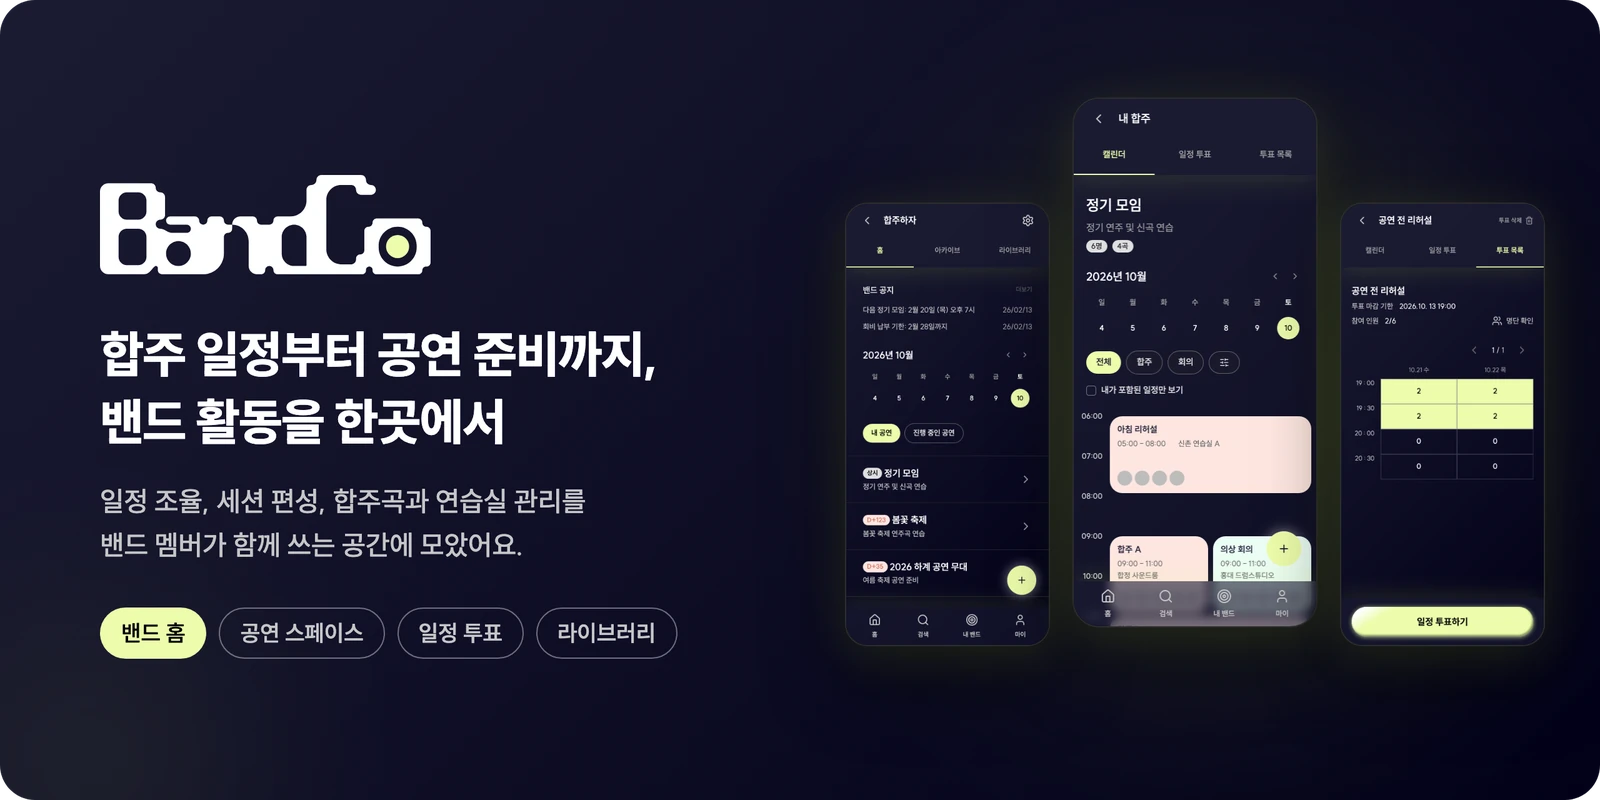
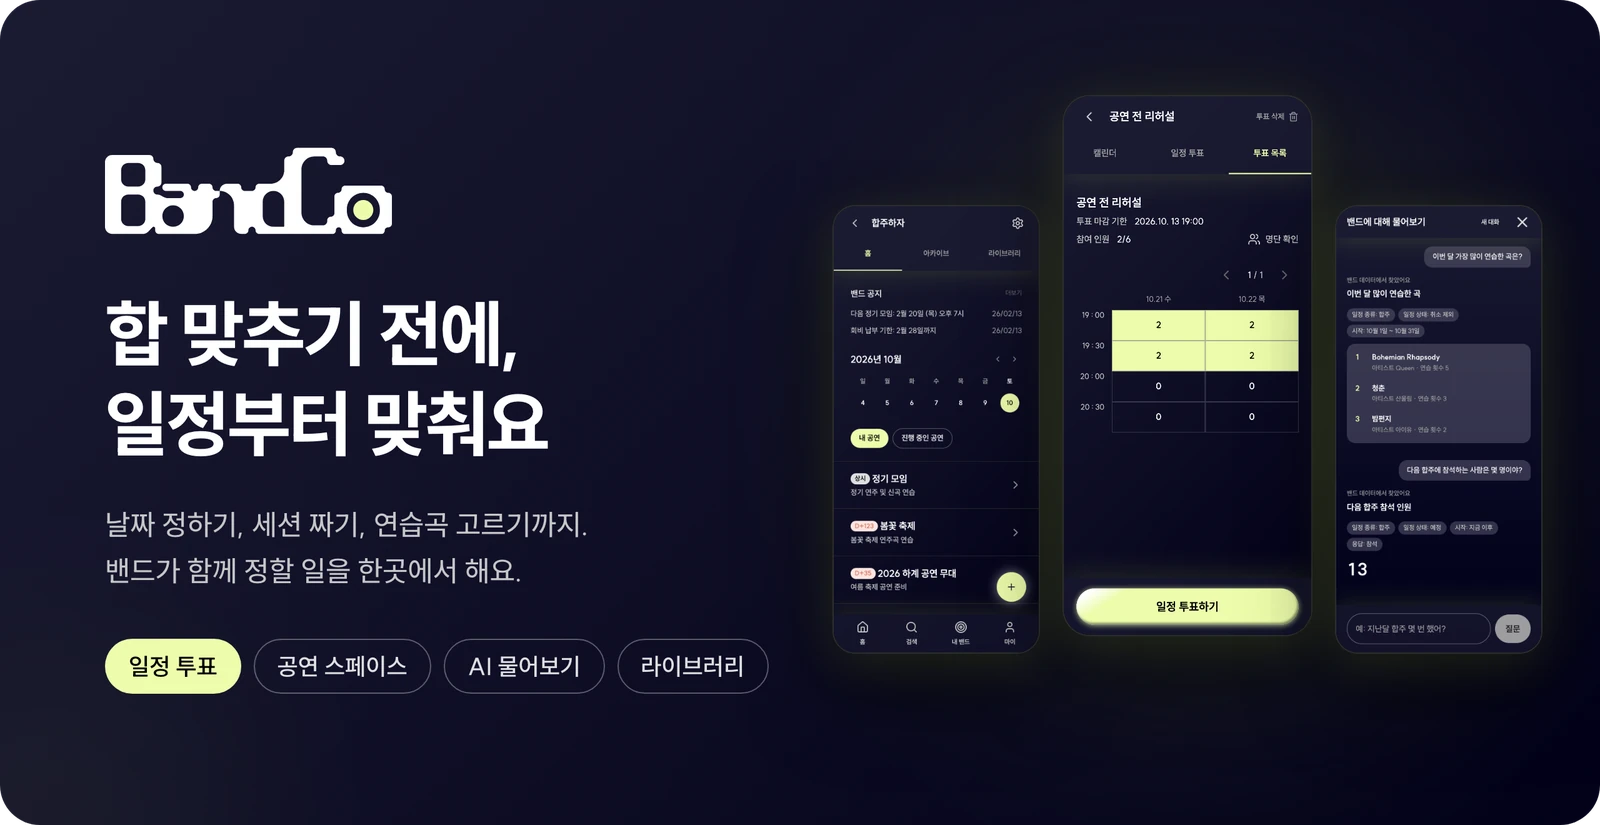
📝 docs: README를 기능 카드 중심으로 다시 디자인
기능 설명을 번호·카피·핵심 포인트가 담긴 카드 이미지로 옮기고, 화면과 좌우를 번갈아 배치한다. AI 물어보기 GIF를 추가하고 GIF마다 기능 이름 라벨을 넣는다. 기술 스택과 아키텍처는 카드 한 장으로 묶고, 시작하기·문서 절은 뺀다.

diff --git a/README.md b/README.md
@@ -1,104 +1,39 @@
 <div align="center">
 
-<img src="docs/readme/banner.webp" alt="BandCo — 합주 일정부터 공연 준비까지, 밴드 활동을 한곳에서" width="100%">
+<img src="docs/readme/banner.webp" alt="BandCo. 합 맞추기 전에, 일정부터 맞춰요. 날짜 정하기, 세션 짜기, 연습곡 고르기까지 밴드가 함께 정할 일을 한곳에서 해요." width="100%">
 
 <br>
-
-**BandCo · Band + Community**
-
-밴드 멤버가 합주 일정, 공연 준비, 곡과 연습실 정보를 함께 관리하는 모바일 웹 서비스
-
 <br>
 
-<img src="https://img.shields.io/badge/React_19-20232A?style=flat-square&logo=react&logoColor=61DAFB">
-<img src="https://img.shields.io/badge/TypeScript-3178C6?style=flat-square&logo=typescript&logoColor=white">
-<img src="https://img.shields.io/badge/TanStack-FF4154?style=flat-square&logo=reactquery&logoColor=white">
-<img src="https://img.shields.io/badge/Tailwind_CSS_v4-06B6D4?style=flat-square&logo=tailwindcss&logoColor=white">
-<img src="https://img.shields.io/badge/NestJS_11-E0234E?style=flat-square&logo=nestjs&logoColor=white">
-<img src="https://img.shields.io/badge/Prisma-2D3748?style=flat-square&logo=prisma&logoColor=white">
-<img src="https://img.shields.io/badge/PostgreSQL-4169E1?style=flat-square&logo=postgresql&logoColor=white">
+<img src="docs/readme/demo-ai.gif" alt="AI 물어보기: 질문을 입력하면 밴드 데이터에서 다음 합주 일정과 참석 인원을 찾아 답하는 화면" width="31%">
+&nbsp;
+<img src="docs/readme/demo-poll.gif" alt="일정 투표: 가능한 시간을 드래그로 골라 투표하면 시간대별 인원이 늘어나는 화면" width="31%">
+&nbsp;
+<img src="docs/readme/demo-space.gif" alt="공연 스페이스: 밴드 홈에서 공연 스페이스로 들어가 일정과 세션 편성을 여는 화면" width="31%">
+
+<br>
+<br>
+
+<img src="docs/readme/feature-01.webp" alt="01 밴드 홈. 우리 밴드 소식, 홈에서 한 번에. 공지, 이번 주 일정, 준비 중인 공연이 한 화면에 모여 있어요. 가입한 밴드는 카드로 모아 보고, 공지와 캘린더, 공연 목록을 한눈에 봐요." width="100%">
+
+<img src="docs/readme/feature-02.webp" alt="02 공연 스페이스. 공연 하나에 필요한 합주를 전부. 공연마다 스페이스를 만들고 합주와 회의를 타임라인으로 정리해요. 합주·회의 필터와 내 일정만 보기, 곡·키·장소가 담긴 일정 상세, 파트별 멤버와 장비까지 담은 세션 편성." width="100%">
+
+<img src="docs/readme/feature-03.webp" alt="03 일정 투표. 되는 시간만 쓱 긁어 주세요. 가능한 시간을 드래그로 고르면 시간대마다 인원이 바로 쌓여요. 후보 날짜와 시간대로 투표를 만들고, 가능한 인원 표와 명단을 확인해요." width="100%">
+
+<img src="docs/readme/feature-04.webp" alt="04 AI 물어보기. 궁금한 건 그냥 물어보세요. '다음 합주 몇 명 와?'처럼 물으면 밴드 데이터에서 찾아 답해요. 숫자는 크게, 순위는 목록으로 보여 주고, 어떤 조건으로 찾았는지 함께 표시해요. 자주 묻는 질문은 눌러서 바로 물어봐요." width="100%">
+
+<img src="docs/readme/feature-05.webp" alt="05 라이브러리와 프로필. 연습곡도, 연습실도, 내 파트도. 합주곡과 자주 가는 연습실을 모아 두고 내 플레이 파트를 프로필로 보여 줘요. 곡마다 키·BPM·음원 링크를 저장하고, 대표 영상이 담긴 프로필 카드를 만들어요." width="100%">
+
+<img src="docs/readme/feature-06.webp" alt="06 초대와 멤버 관리. 링크 하나면 멤버가 모여요. 초대 링크를 보내거나 이름으로 찾아 바로 추가해요. 멤버 권한과 팀을 관리하고, 이메일과 Google로 로그인해요." width="100%">
+
+<img src="docs/readme/tech.webp" alt="기술과 구조. Frontend: React 19, React Compiler, TypeScript, Vite, TanStack Router, TanStack Query, Tailwind CSS v4, Radix UI, MSW, Vitest. Backend: NestJS 11, Prisma 6, PostgreSQL, Swagger, Jest. AI: Gemini, pgsql-parser AST 검증. Infra: Docker, GitHub Actions, AWS Lightsail, Secrets Manager, CloudWatch, Vercel. Frontend(React, Vercel)가 REST로 Backend(NestJS, Lightsail)를 호출하고, Backend는 PostgreSQL, Object Storage, Gemini를 사용해요. GitHub Actions가 Docker 이미지를 빌드해 Lightsail에 배포해요." width="100%">
 
 </div>
 
-<br>
-
-## 미리보기
-
-<p align="center">
-  <img src="docs/readme/demo-space.gif" alt="밴드 홈에서 공연 스페이스로 들어가 일정 상세를 여는 흐름" width="300">
-  &nbsp;&nbsp;
-  <img src="docs/readme/demo-poll.gif" alt="일정 투표에서 가능한 시간을 드래그해 투표하는 흐름" width="300">
-</p>
-<p align="center"><sub>공연 스페이스에서 일정 확인하기 · 가능한 시간을 드래그해 일정 투표하기</sub></p>
-
-## 핵심 기능
-
-### 1. 밴드 홈
-
-가입한 밴드를 카드로 모아 보고, 밴드에 들어가면 공지와 이번 주 캘린더, 준비 중인 공연을 한 화면에서 확인해요.
-
-<img src="docs/readme/feature-home.webp" alt="내 밴드 목록과 밴드 홈 화면" width="100%">
-
-### 2. 공연 스페이스와 일정
-
-공연 하나를 준비하는 데 필요한 합주와 회의를 스페이스 하나에 모아요.
-
-- **타임라인 캘린더**: 날짜별 일정을 시간 순서로 보고, 합주·회의로 거르거나 내가 포함된 일정만 볼 수 있어요.
-- **일정 상세**: 연습할 곡과 키, 날짜·시간·장소를 보여 줘요.
-- **세션 편성**: 파트별로 누가 어떤 장비로 들어오는지 정리해요.
-
-<img src="docs/readme/feature-space.webp" alt="공연 스페이스 캘린더와 일정 상세 화면" width="100%">
-
-### 3. 일정 투표
-
-다 같이 모일 수 있는 시간을 투표로 찾아요.
-
-- 후보 날짜와 시간대를 정해 투표를 만들어요.
-- 멤버는 참여할 수 있는 시간을 **드래그해서** 골라요.
-- 시간대마다 가능한 인원이 표에 쌓이고, 명단도 확인할 수 있어요.
-
-<img src="docs/readme/feature-poll.webp" alt="일정 투표 목록과 가능한 인원 표" width="100%">
-
-### 4. 라이브러리와 멤버 프로필
-
-- **라이브러리**: 밴드가 연습할 합주곡과 자주 쓰는 연습 장소를 등록해요. 곡마다 키, BPM, 음원 링크, 커버 이미지를 함께 저장해요.
-- **멤버 프로필**: 플레이 파트와 대표 영상을 담은 프로필 카드를 만들고 공유해요.
-
-<img src="docs/readme/feature-library.webp" alt="라이브러리와 멤버 프로필 화면" width="100%">
-
-### 5. 초대와 멤버 관리
-
-- 초대 링크를 발급하거나 이름으로 검색해 멤버를 바로 추가해요.
-- 밴드 설정에서 멤버 권한과 팀을 관리해요.
-- 이메일과 Google 계정으로 로그인해요.
-
-<img src="docs/readme/feature-invite.webp" alt="밴드 초대 설정과 로그인 화면" width="100%">
+<details>
+<summary><b>프로젝트 구조</b></summary>
 
 <br>
-
-## 기술 스택
-
-| 영역     | 기술                                                                                                         |
-| -------- | ------------------------------------------------------------------------------------------------------------ |
-| Frontend | React 19 (React Compiler), TypeScript, Vite, TanStack Router · Query, Tailwind CSS v4, Radix UI, MSW, Vitest |
-| Backend  | NestJS 11, Prisma 6, PostgreSQL, Swagger, Jest                                                               |
-| Infra    | Docker, GitHub Actions, AWS Lightsail(서버 · 오브젝트 스토리지), AWS Secrets Manager, CloudWatch, Vercel     |
-
-## 아키텍처
-
-```mermaid
-flowchart LR
-  user([사용자]) --> web[Frontend<br>React · Vercel]
-  web -->|REST API| api[Backend<br>NestJS · Docker on Lightsail]
-  api --> db[(PostgreSQL)]
-  api -->|Presigned URL| storage[(Lightsail<br>Object Storage)]
-  web -.->|파일 업로드| storage
-  gha[GitHub Actions] -->|이미지 빌드 · 배포| api
-  secrets[Secrets Manager] -.->|환경 변수| gha
-  api -.->|로그| cw[CloudWatch]
-```
-
-## 프로젝트 구조
 
 ```text
 .
@@ -120,34 +55,4 @@ flowchart LR
 └── docs/readme/         # README 이미지
 ```
 
-## 시작하기
-
-Node.js 24와 pnpm 10을 사용해요.
-
-**Backend**
-
-```bash
-cd backend
-cp .env.example .env.development   # DATABASE_URL, JWT_SECRET 등을 채워요
-pnpm install
-pnpm run prisma:migrate:dev
-pnpm run start:dev                  # http://localhost:3000
-```
-
-**Frontend**
-
-```bash
-cd frontend
-pnpm install
-pnpm dev                            # http://localhost:5173
-```
-
-개발 모드에서는 `/api` 요청을 `http://localhost:3000`으로 넘겨요. MSW 목 핸들러도 함께 켜져서, 백엔드 없이도 대부분의 화면을 확인할 수 있어요.
-
-`docker compose up`으로 두 서버를 한 번에 띄울 수도 있어요.
-
-## 문서
-
-- [Git · 커밋 · PR 규칙](backend/docs/git.md)
-- [Frontend 컨벤션](frontend/AGENTS.md)
-- [Backend 개요](backend/docs/overview.md)
+</details>
